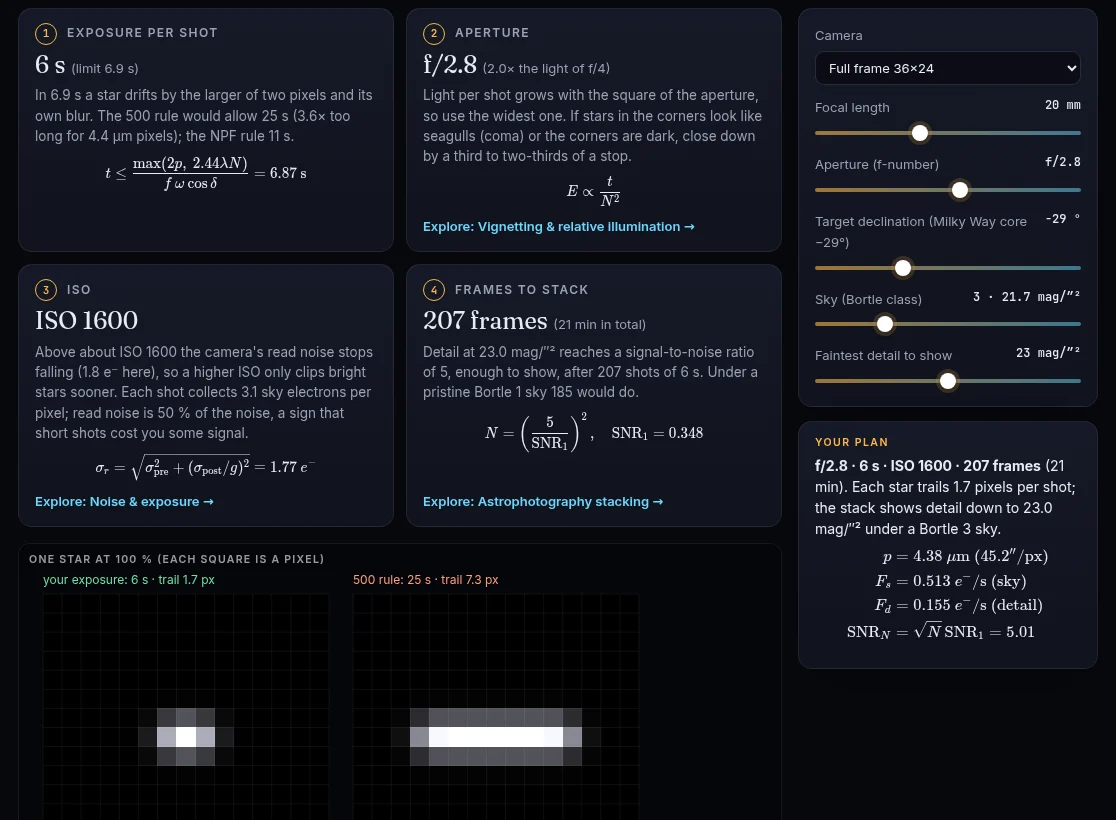
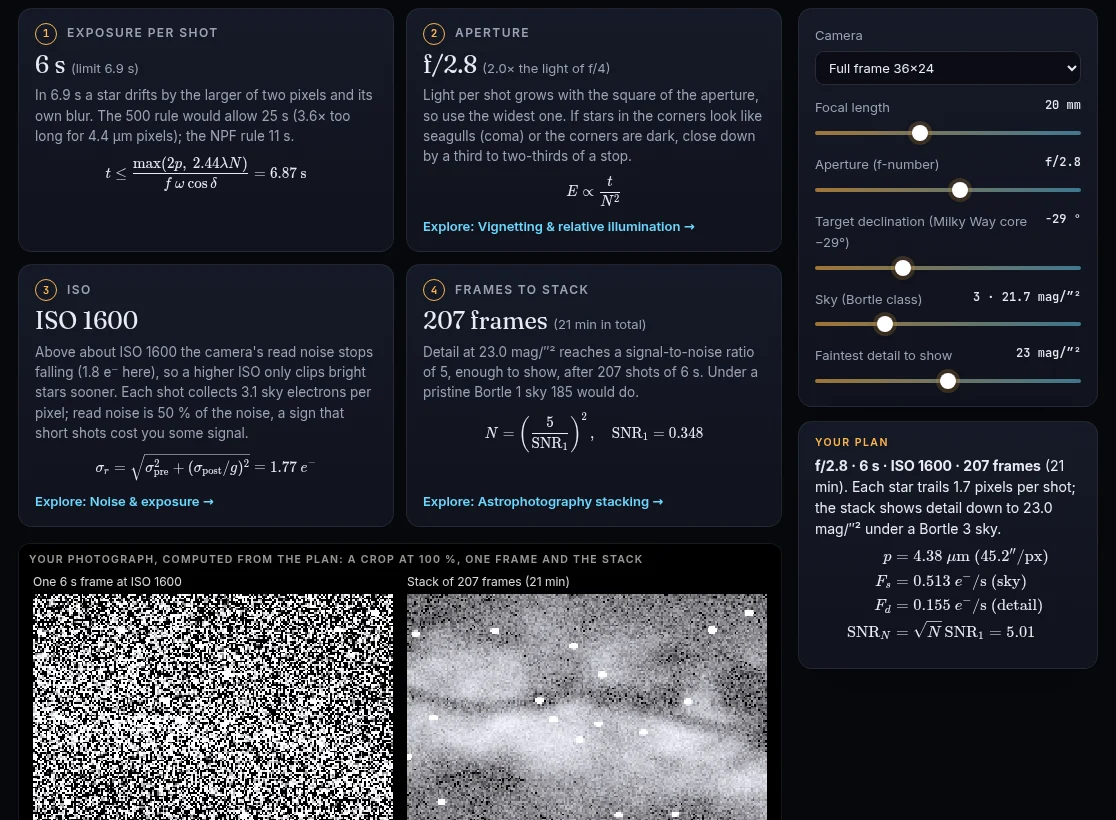
feat(mission-milkyway): the photograph the plan gives, one frame and the stack (#280)
* feat(mission-milkyway): the photograph the plan gives, one frame and the stack

milkywayShot() renders a 200×130 crop at 100 % from the plan's rates:
sky glow F_s t, the chosen faint detail F_d t shaped by a seeded cloud
pattern with dark lanes, power-law stars blurred by diffraction and
trailed by the planned length, photon and read noise; once as a single
frame and once as the mean of the planned number of frames. Shown side
by side with one sky-subtracted stretch.

* docs(changelog): Milky Way photograph under Unreleased

---------

Changed region(s): [[0.0305, 0.6707, 0.7007, 1.0]]

diff --git a/js/modules/mission-milkyway.js b/js/modules/mission-milkyway.js
@@ -1,12 +1,13 @@
 // Mission: photograph the Milky Way with a camera on a fixed tripod.
 import { h, controls, stage, imageCanvas, fmt, texNum } from '../lib/ui.js';
+import { paint, encode, keyOf } from '../lib/pixels.js';
 import { header, lab, idea, rule, theory, references, liveCalc, missionStep } from '../lib/page.js';
 import { plot, range } from '../lib/plot.js';
 import { MODULES } from '../app.js';
 import { cameraOptions, resolveCamera } from '../lib/equipment.js';
 import { BORTLE, surfaceRate } from '../lib/stacking.js';
-import { plan, SIDEREAL } from '../lib/milkyway.js';
-import { t } from '../lib/i18n.js';
+import { plan, SIDEREAL, milkywayShot } from '../lib/milkyway.js';
+import { t, localNum } from '../lib/i18n.js';
 
 const titleOf = (id) => MODULES.find((m) => m.id === id)?.title || id;
 const fmtT = (t) => (t >= 60 ? (t / 60).toFixed(t >= 600 ? 0 : 1) + ' min' : (t >= 10 || Number.isInteger(t) ? t.toFixed(0) : t.toPrecision(2)) + ' s');
@@ -36,9 +37,10 @@ export default function mount(root, meta) {
     missionStep(4, 'Frames to stack', 'stacking', titleOf('stacking')),
   ];
   steps[0].el.querySelector('.mstep-lab').remove();
+  const shots = stage({ aspect: 2.5, label: 'Your photograph, computed from the plan: a crop at 100 %, one frame and the stack', draw: drawShots, minH: 200 });
   const pix = stage({ aspect: 2.2, label: 'One star at 100 % (each square is a pixel)', draw: drawPixels, minH: 200 });
   const snrPlot = stage({ aspect: 2.2, label: '', draw: drawSNR, cls: 'plain', minH: 220 });
-  root.append(lab([h('div.msteps', {}, ...steps.map((s) => s.el)), pix.el, h('div.card', { style: { padding: '8px' } }, snrPlot.el)], [h('div.card', {}, ctl.el), calc.el]));
+  root.append(lab([h('div.msteps', {}, ...steps.map((s) => s.el)), shots.el, pix.el, h('div.card', { style: { padding: '8px' } }, snrPlot.el)], [h('div.card', {}, ctl.el), calc.el]));
 
   let P = null;
   function update() {
@@ -72,7 +74,8 @@ export default function mount(root, meta) {
     F_d &= ${texNum(r.Fd, 3)}\ e^-/\text{s}\ \text{(detail)}\\
     \mathrm{SNR}_N &= \sqrt{N}\,\mathrm{SNR}_1 = ${texNum(Math.sqrt(r.frames) * r.s1, 3)}
     \end{aligned}`);
-    pix.redraw(); snrPlot.redraw();
+    SHOT = milkywayShot(P, { N: st.N });
+    pix.redraw(); snrPlot.redraw(); shots.redraw();
   }
 
   // a star integrated over the pixel grid while it drifts across the sensor
@@ -104,6 +107,25 @@ export default function mount(root, meta) {
       for (let i = 0; i <= n; i++) { ctx.beginPath(); ctx.moveTo(ox + i * cell, oy); ctx.lineTo(ox + i * cell, oy + side); ctx.moveTo(ox, oy + i * cell); ctx.lineTo(ox + side, oy + i * cell); ctx.stroke(); }
       ctx.fillStyle = k ? '#ff9a7a' : '#6be3a4'; ctx.font = '12px Inter, sans-serif'; ctx.textAlign = 'left';
       ctx.fillText(t('{label} · trail {px} px', { label, px: ((L * 1000) / P.pitch).toFixed(1) }), ox, 40);
+    });
+  }
+
+  // The photograph the plan gives (js/lib/milkyway.js): the same crop as one frame and as the stack,
+  // with one display stretch for both (black at the sky's level, white just above the brightest detail),
+  // each sensor pixel drawn as a square.
+  let SHOT = null;
+  function drawShots(ctx, w, hh, st) {
+    ctx.fillStyle = '#000'; ctx.fillRect(0, 0, w, hh);
+    if (!SHOT) return;
+    const { W, H, sky, det, noise1 } = SHOT, gap = 14, top = 50; // below the caption
+    const pw = Math.min((w - 3 * gap) / 2, ((hh - top - 10) * W) / H), ph = (pw * H) / W;
+    const lo = sky - 0.25 * det, hi = sky + 2.4 * det, k = 3 / (hi - lo); // the sky subtracted, as in processing
+    const tone = (v) => { const x = Math.max(0, v - lo) * k; return encode(Math.asinh(x) / Math.asinh(3)); };
+    [[SHOT.one, t('One {t} frame at ISO {iso}', { t: fmtT(P.t), iso: P.iso })], [SHOT.stack, t('Stack of {n} frames ({min} min)', { n: P.frames, min: localNum(fmt(P.total / 60, 2)) })]].forEach(([a, label], i) => {
+      const x0 = gap + i * (pw + gap);
+      paint(st, { x: x0, y: top, w: pw, h: ph }, (u, v, o) => { const g = tone(a[Math.min(H - 1, (v * H) | 0) * W + Math.min(W - 1, (u * W) | 0)]); o[0] = g; o[1] = g; o[2] = Math.min(1, g * 1.04); }, keyOf(SHOT), i);
+      ctx.fillStyle = 'rgba(255,255,255,0.85)'; ctx.font = '12px Inter, sans-serif'; ctx.textAlign = 'left';
+      ctx.fillText(label, x0, top - 8);
     });
   }
 
@@ -146,5 +168,5 @@ and the average of \(N\) aligned frames \(\sqrt N\) times more. The plan asks fo
     'S. B. Howell, <i>Handbook of CCD Astronomy</i>, 2nd ed., Cambridge (2006), ch. 4: the CCD equation.',
     'R. N. Clark, clarkvision.com: digital camera sensor analysis (read noise against ISO).',
   ]));
-  return () => [pix, snrPlot].forEach((s) => s.destroy());
+  return () => [shots, pix, snrPlot].forEach((s) => s.destroy());
 }

diff --git a/js/lib/milkyway.js b/js/lib/milkyway.js
@@ -1,7 +1,8 @@
 // Mission "Photograph the Milky Way": exposure before stars trail, ISO-invariance point, read noise
 // against sky noise, and the number of frames to stack for a chosen faint detail. Pure functions.
 import { SENSORS, pitchUm, crop } from './sensors.js';
-import { BORTLE, surfaceRate } from './stacking.js';
+import { BORTLE, surfaceRate, ZP } from './stacking.js';
+import { makeRng } from './random.js';
 
 export const SIDEREAL = 7.2921e-5; // rad/s, Earth's rotation relative to the stars
 const LAMBDA = 0.55e-3; // mm
@@ -57,4 +58,49 @@ export function plan({ sensor = 'ff', f = 20, N = 2.8, dec = -29, bortle = 3, mu
     S, pitch, k, trail, t, t500: rule500(f, k), tNPF: ruleNPF(f, N, pitch), iso, isoInv, sigma, D, p,
     Fs, Fd, sky, readShare, s1, frames, total: frames * t, frames1, trailPx: (trail.speed * t * 1000) / pitch,
   };
+}
+
+// ── The photograph the plan gives ──────────────────────────────────────────────────────────
+// A crop of W × H pixels at 100 % from the middle of the frame, in electrons per pixel: the sky glow
+// F_s t, the Milky Way's faint detail F_d t shaped by a seeded cloud pattern with dark lanes (0 … 2
+// times the planned detail), and stars from a power-law count (N(<m) ∝ 10^(0.35 m)) imaged with the
+// lens's blur and smeared into trails of the planned length. One frame adds Gaussian approximations
+// of photon noise (√signal) and read noise σ; the stack averages `frames` such frames, so its noise
+// is √frames times smaller. Returns { one, stack, sky, noise1 } with Float32Arrays of W·H.
+export function milkywayShot(P, { W = 200, H = 130, seed = 7, N = 2.8 } = {}) {
+  const rng = makeRng(seed), u = rng.u, t = P.t, sky = P.Fs * t, det = P.Fd * t, sigma = P.sigma;
+  const clean = new Float32Array(W * H);
+  // the detail: smooth value noise on a coarse grid, a band across the crop and two dark lanes
+  const G = 24, grid = Float32Array.from({ length: G * G }, () => u());
+  const vn = (x, y) => { const i = Math.floor(x), j = Math.floor(y), fx = x - i, fy = y - j, a = grid[(j % G) * G + (i % G)], b = grid[(j % G) * G + ((i + 1) % G)], c = grid[((j + 1) % G) * G + (i % G)], d = grid[((j + 1) % G) * G + ((i + 1) % G)], sx = fx * fx * (3 - 2 * fx), sy = fy * fy * (3 - 2 * fy); return a + (b - a) * sx + (c - a) * sy + (a - b - c + d) * sx * sy; };
+  for (let j = 0; j < H; j++) for (let i = 0; i < W; i++) {
+    const x = i / W, y = j / H, n = 0.55 * vn(x * 5, y * 5) + 0.3 * vn(x * 11 + 3, y * 11 + 7) + 0.15 * vn(x * 23 + 5, y * 23 + 1);
+    const band = Math.exp(-(((y - 0.5 - 0.18 * (x - 0.5)) / 0.32) ** 2));
+    const lane = 1 - 0.8 * Math.exp(-(((y - 0.47 - 0.12 * (x - 0.5) - 0.05 * Math.sin(x * 9)) / 0.045) ** 2));
+    clean[j * W + i] = sky + det * 2 * band * lane * Math.min(1, Math.max(0, (n - 0.25) * 1.6));
+  }
+  // stars: magnitudes 6 … 14 (fainter ones vanish in the noise), rate F = ZP·10^(−0.4m)·π(D/2)²·q
+  // the star image: the diffraction blur (FWHM 1.03 λN) or the pixel, whichever is larger, as in the
+  // one-star panel; σ in pixels
+  const blur = Math.max(0.45, (1.03 * LAMBDA * N) / 2.355 / (P.pitch / 1000)), L = P.trailPx;
+  const per = W * H / 1500; // about this many stars brighter than 14 per 1500 pixels at these scales
+  for (let k = 0; k < per * 60; k++) {
+    const m = 14 - Math.log10(1 + u() * (10 ** (0.35 * 8) - 1)) / 0.35; // N(<m) ∝ 10^(0.35 m), 6 ≤ m ≤ 14
+    if (u() > 0.02) continue; // thin to a realistic density
+    const F = ZP * Math.pow(10, -0.4 * m) * Math.PI * (P.D / 2) ** 2 * 0.3 * t, x0 = u() * W, y0 = u() * H;
+    const steps = Math.max(1, Math.ceil(L * 2)), s2 = 2 * blur * blur, R = Math.ceil(3 * blur + L / 2 + 1);
+    for (let s = 0; s < steps; s++) {
+      const cx = x0 + (steps > 1 ? (s / (steps - 1) - 0.5) * L : 0), share = F / steps / (Math.PI * s2);
+      for (let j = Math.max(0, Math.floor(y0 - R)); j <= Math.min(H - 1, Math.ceil(y0 + R)); j++) for (let i = Math.max(0, Math.floor(cx - 3 * blur - 1)); i <= Math.min(W - 1, Math.ceil(cx + 3 * blur + 1)); i++) {
+        const dx = i + 0.5 - cx, dy = j + 0.5 - y0; clean[j * W + i] += share * Math.exp(-(dx * dx + dy * dy) / s2);
+      }
+    }
+  }
+  const frames = P.frames, one = new Float32Array(W * H), stack = new Float32Array(W * H);
+  for (let k = 0; k < W * H; k++) {
+    const v = clean[k], sd = Math.sqrt(Math.max(0, v) + sigma * sigma);
+    one[k] = v + sd * rng.g();
+    stack[k] = v + (sd / Math.sqrt(frames)) * rng.g();
+  }
+  return { one, stack, W, H, sky, det, noise1: Math.sqrt(sky + sigma * sigma) };
 }

diff --git a/js/locales/de.js b/js/locales/de.js
@@ -1,6 +1,9 @@
 // German interface strings, keyed by the English text (see js/lib/i18n.js).
 // test/i18n.test.mjs checks that every key is used and every interface string is here.
 export default {
+  "Your photograph, computed from the plan: a crop at 100 %, one frame and the stack": "Ihr Foto, aus dem Plan berechnet: ein Ausschnitt in 100 %, ein Einzelbild und der Stapel",
+  "One {t} frame at ISO {iso}": "Ein Einzelbild von {t} bei ISO {iso}",
+  "Stack of {n} frames ({min} min)": "Stapel aus {n} Bildern ({min} min)",
   "Your photograph, computed from the plan": "Ihr Foto, aus dem Plan berechnet",
   "seen once": "einmal zu sehen",
   "seen {n} times": "{n}-mal zu sehen",

diff --git a/js/locales/es.js b/js/locales/es.js
@@ -1,6 +1,9 @@
 // Spanish interface strings, keyed by the English text (see js/lib/i18n.js).
 // test/i18n.test.mjs checks that every key is used and every interface string is here.
 export default {
+  "Your photograph, computed from the plan: a crop at 100 %, one frame and the stack": "Tu foto, calculada a partir del plan: un recorte al 100 %, una toma y el apilado",
+  "One {t} frame at ISO {iso}": "Una toma de {t} a ISO {iso}",
+  "Stack of {n} frames ({min} min)": "Apilado de {n} tomas ({min} min)",
   "Your photograph, computed from the plan": "Tu foto, calculada a partir del plan",
   "seen once": "visto una vez",
   "seen {n} times": "visto {n} veces",

diff --git a/js/locales/fr.js b/js/locales/fr.js
@@ -1,6 +1,9 @@
 // French interface strings, keyed by the English text (see js/lib/i18n.js).
 // test/i18n.test.mjs checks that every key is used and every interface string is here.
 export default {
+  "Your photograph, computed from the plan: a crop at 100 %, one frame and the stack": "Votre photo, calculée à partir du plan : un recadrage à 100 %, une pose et la pile",
+  "One {t} frame at ISO {iso}": "Une pose de {t} à ISO {iso}",
+  "Stack of {n} frames ({min} min)": "Pile de {n} poses ({min} min)",
   "Your photograph, computed from the plan": "Votre photo, calculée à partir du plan",
   "seen once": "vu une fois",
   "seen {n} times": "vu {n} fois",

diff --git a/README.md b/README.md
@@ -123,7 +123,7 @@ Every image below is a screenshot of the running app. Each one is a simulation r
 Missions are real tasks. Enter your equipment and situation (or pick a real camera body, planetary camera or telescope from the presets), and the page combines several laboratory models into a plan with the reason for every setting.
 
 **Photograph the Milky Way** · `#/mission-milkyway`<br>
-<img src="docs/screenshots/mission-milkyway.webp" alt="Milky Way mission: exposure, aperture, ISO and number of frames, with a star drawn on the pixel grid at the planned exposure and at the 500 rule" width="70%">
+<img src="docs/screenshots/mission-milkyway.webp" alt="Milky Way mission: exposure, aperture, ISO and number of frames, the photograph the plan gives as one frame and as the stack, with a star drawn on the pixel grid at the planned exposure and at the 500 rule" width="70%">
 
 The longest exposure before stars trail (sidereal drift f ω cos δ against two pixels or the Airy disk, compared with the 500 and NPF rules), the ISO-invariance point of a two-stage read-noise model, sky and detail electrons from the Bortle class, and the number of frames for a signal-to-noise ratio of 5 on the faintest detail you choose.
 
@@ -1120,6 +1120,7 @@ The numerical core was checked against published or analytically known values. E
 | FDTD wavelength in vacuum and in glass (n = 1.5), 16 cells per λ | 16.02, 10.56 cells | 16, 10.67 (numerical dispersion below 1.5 %) |
 | FDTD double slit against the Huygens–Fresnel integral | RMS difference below 0.12, central fringe within 3 cells | 2-D Huygens–Fresnel |
 | Portrait photograph: irradiance of a spherical light of angular radius a at the geometric terminator; background blur disc | sin a / 4; disc = planned c_bg | (cos θ + sin a)²/(4 sin a) at cos θ = 0; diameter 2r/px·mm = c_bg |
+| Milky Way photograph: noise of one frame against the planned stack | √(signal + σ²)·√(1 + 1/N) | within 12 % of the measured difference between the two pictures |
 | Black hole: capture threshold, weak-field deflection at b = 100M | 3√3 M; 0.04122 rad | 3√3 M; 4/b + 15π/4b² + 128/3b³ = 0.04122 |
 | Shadow of M87* (6.5 × 10⁹ M☉, 16.8 Mpc) | 39.7 µas | EHT ring 42 ± 3 µas (the ring lies just outside the shadow) |
 | Autofocus defocus blur, 50 mm f/2 at 2 m, subject 3 m; 200 mm f/2, 0.6 m ↔ 10 m | 213.675 µm; 31.973 mm and 47.000 mm, half-pupil shift 0.424 A Δv/v | Thin-lens similar triangles, b = A\|Δv\|/v(u), and a ray trace through both pupil halves |

diff --git a/ROADMAP.md b/ROADMAP.md
@@ -78,7 +78,7 @@ flowchart LR
 | Laboratories | 64 pages, including 9 missions and the reference pages | see Planned milestones |
 | Catalogue entries | 239, each with details and a worked example | link every new lab |
 | Lens prescriptions | 15: camera lenses from the Petzval to the Biogon, Hubble, a Cassegrain and a three-mirror anastigmat; aspheres, mirrors, model glasses and file import | (none planned) |
-| Automated tests | 484 tests (physics, blur, lens I/O, ghosts, bokeh, polarisation, macro, colour, AO) + link check + browser smoke test in CI | more coverage per new lab |
+| Automated tests | 485 tests (physics, blur, lens I/O, ghosts, bokeh, polarisation, macro, colour, AO) + link check + browser smoke test in CI | more coverage per new lab |
 | Deployment | GitHub Pages, deployed from `main` by CI | (none) |
 
 ---
@@ -591,7 +591,7 @@ Candidates, in order of how much the third dimension adds:
 Ideas worth keeping but not yet scheduled:
 
 - *(from v1.2)* **WebGPU compute path** for FFTs, phase screens and per-pixel ray casting, with a mandatory CPU fallback; waits until the Raspberry Pi 4 or the CI runners expose a WebGPU adapter to test it on.
-- *(from v1.42)* **A picture of the result on the other missions** (the portrait session has one): the Milky Way frame with trails and noise, Jupiter through the seeing, the eclipse exposure set, the satellite's ground image at its GSD.
+- *(from v1.42)* **A picture of the result on the other missions** (the portrait session and the Milky Way have one): Jupiter through the seeing, the eclipse exposure set, the satellite's ground image at its GSD.
 - *(from v1.36)* **Soft shadows and tighter framing in the 3-D views**: the scenes have no ground to cast onto, and shadow maps are heavy on the Raspberry Pi; framing would fit the camera to the meshes rather than to every ray.
 - *(from v1.36)* **Wide-gamut output** (Display P3 canvases) for spectral colours: needs the colours kept outside sRGB through the computation (the PSF clips negative components today) and a P3 screen to check it on; gains nothing on sRGB screens.
 - *(from v1.3)* Traced relative illumination across the field (real-ray pupil area and cos⁴ projection) in the ray tracer.

diff --git a/CHANGELOG.md b/CHANGELOG.md
@@ -6,6 +6,9 @@ The format follows [Keep a Changelog](https://keepachangelog.com/en/1.1.0/), and
 
 ## [Unreleased]
 
+### Added
+- **Photograph the Milky Way: the photograph your plan gives.** A crop of the frame at 100 %, side by side as one sub-exposure and as the stack of the planned number of frames, computed from the plan's own rates: the sky glow of the chosen Bortle class, the faint detail you asked for (with dark lanes), stars from a realistic count, blurred by the lens and trailed by the planned amount, photon and read noise at the chosen ISO. With one stretch for both, a single frame is noise and the stack shows the structure.
+
 ## [1.43.0] - 2026-11-11
 
 ### Added
